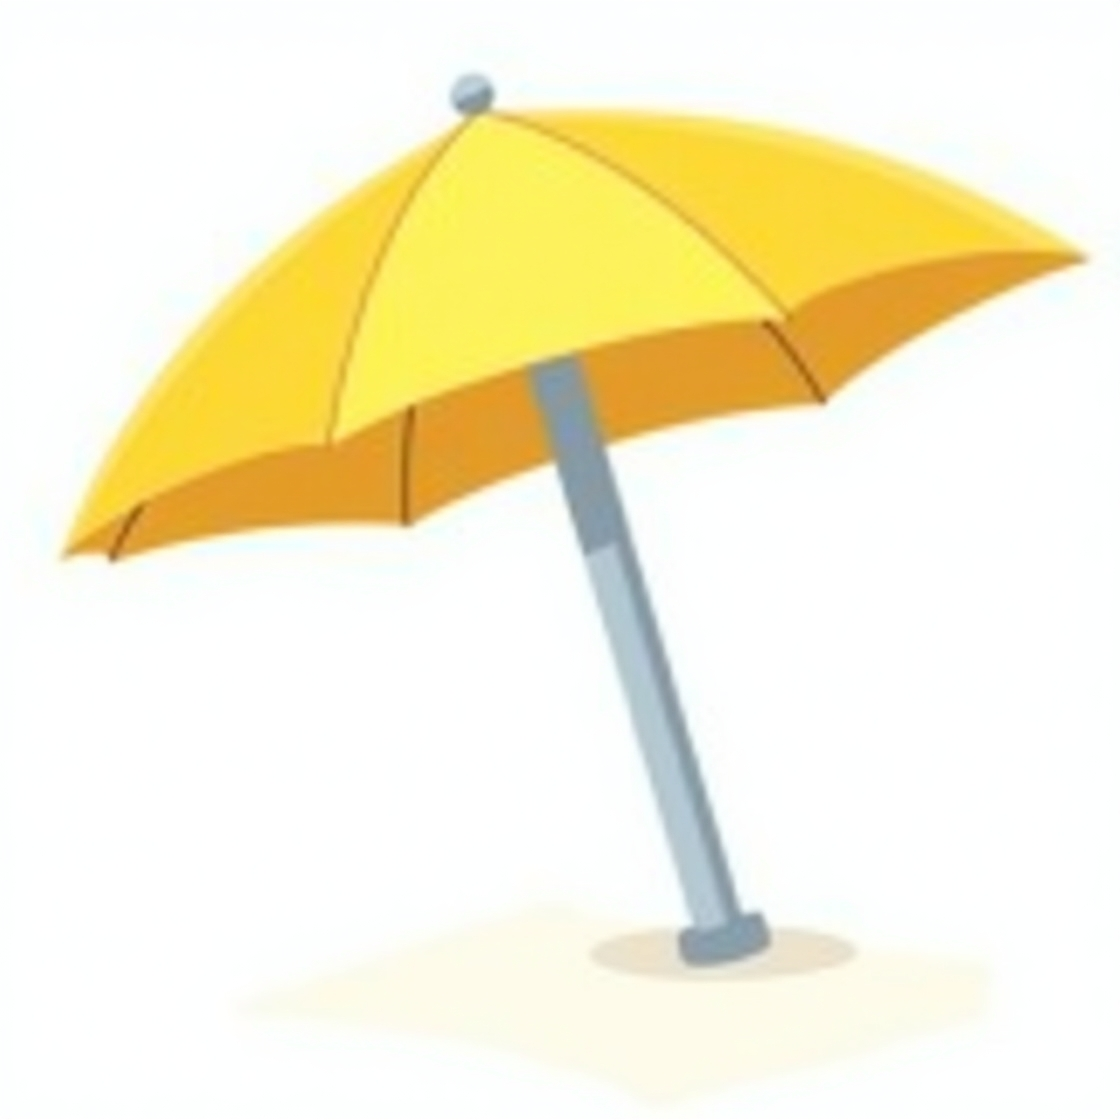
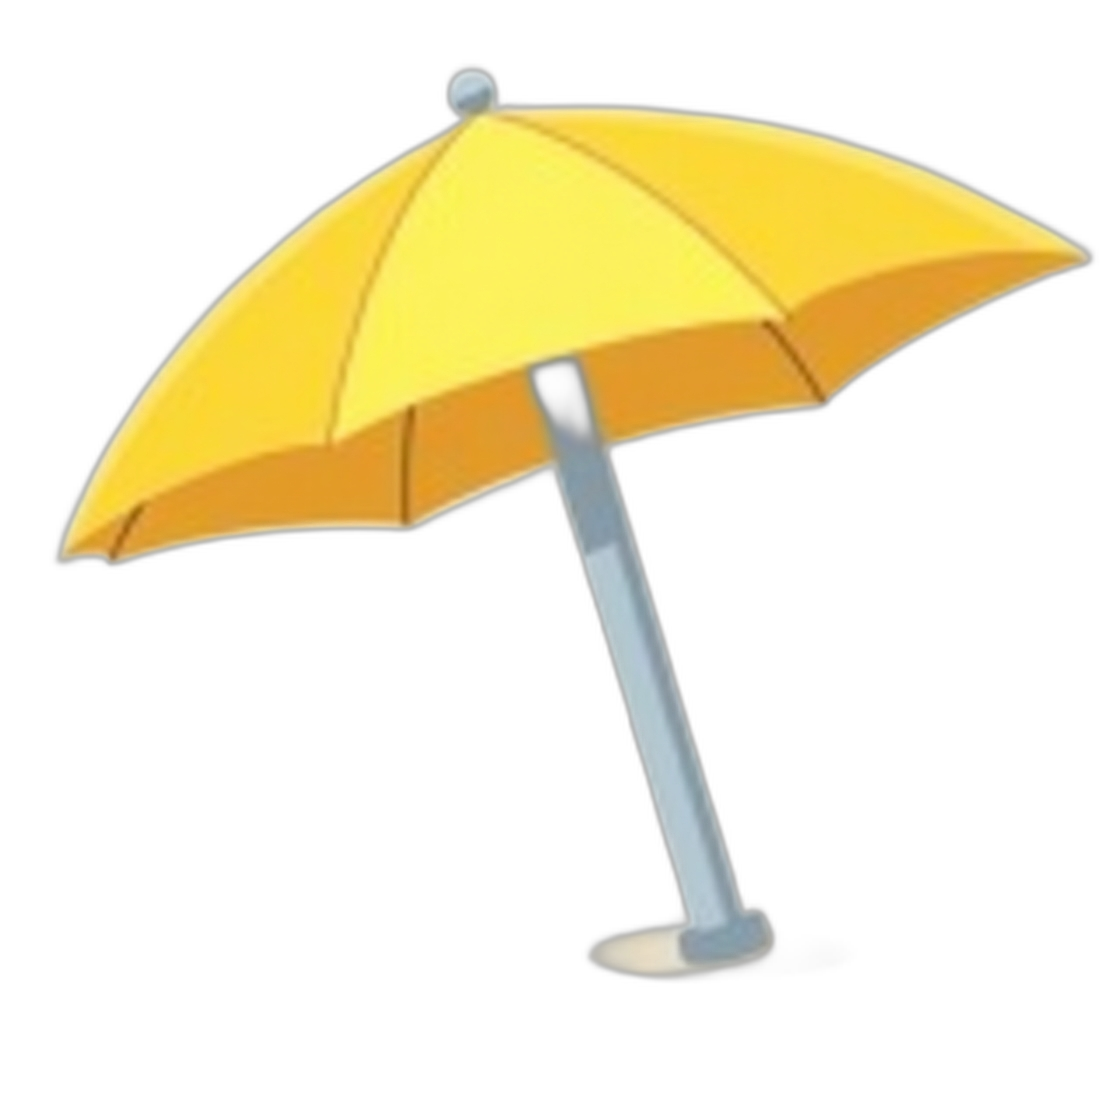
added image with no background and worked on form style

diff --git a/index.html b/index.html
@@ -19,36 +19,48 @@
         </div>
 
         <div id="mainContainer">
-            <p class="textContent">This is a sign up form for something you sign up for. I need to fill more space so I'm
+            <p class="textContent">This is a sign up form for something you sign up for. I need to fill more space so
+                I'm
                 writing this. I ran out of things to say.</p>
             <p class="textContent">Just kidding now this is really the end.</p>
             <form action="#">
                 <h2>Sign up for an account!</h2>
                 <div id="formContent">
 
-                    <div>
-                        <label for="firstName">First Name</label>
-                        <input type="text" id="firstName" name="firstName">
+                    <div class="formLine">
+                        <div class="formInput">
+                            <label for="firstName">First Name</label>
+                            <input type="text" id="firstName" name="firstName">
+                        </div>
 
-                        <label for="lastName">Last Name</label>
-                        <input type="text" id="lastName" name="lastName">
+                        <div class="formInput">
+                            <label for="lastName">Last Name</label>
+                            <input type="text" id="lastName" name="lastName">
+                        </div>
                     </div>
 
-                    <div>
-                        <label for="userEmail">Email</label>
-                        <input type="email" name="userEmail" id="userEmail">
+                    <div class="formLine">
+                        <div class="formInput">
+                            <label for="userEmail">Email</label>
+                            <input type="email" name="userEmail" id="userEmail">
+                        </div>
 
-                        <label for="phoneNumber">Phone Number</label>
-                        <input type="tel" name="phoneNumber" id="phoneNumber">
+                        <div class="formInput">
+                            <label for="phoneNumber">Phone Number</label>
+                            <input type="tel" name="phoneNumber" id="phoneNumber">
+                        </div>
                     </div>
 
-                    <div>
-                        <label for="password">Password</label>
-                        <input type="password" name="password" id="password">
+                    <div class="formLine">
+                        <div class="formInput">
+                            <label for="password">Password</label>
+                            <input type="password" name="password" id="password">
+                        </div>
 
-                        <label for="confirmPassword">Confirm Password</label>
-                        <input type="password" name="confirmPassword" id="confirmPassword">
-                        
+                        <div class="formInput">
+                            <label for="confirmPassword">Confirm Password</label>
+                            <input type="password" name="confirmPassword" id="confirmPassword">
+                        </div>
                     </div>
 
                 </div>

diff --git a/styles.css b/styles.css
@@ -1,0 +1,8 @@
+.formLine {
+    display: flex;
+}
+
+.formInput {
+    display: flex;
+    flex-direction: column;
+}
